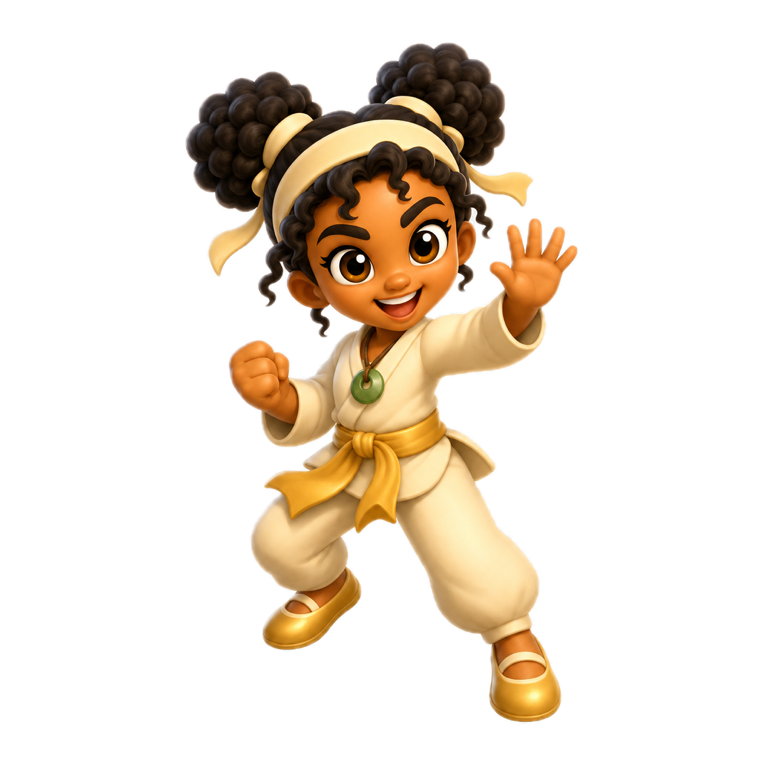
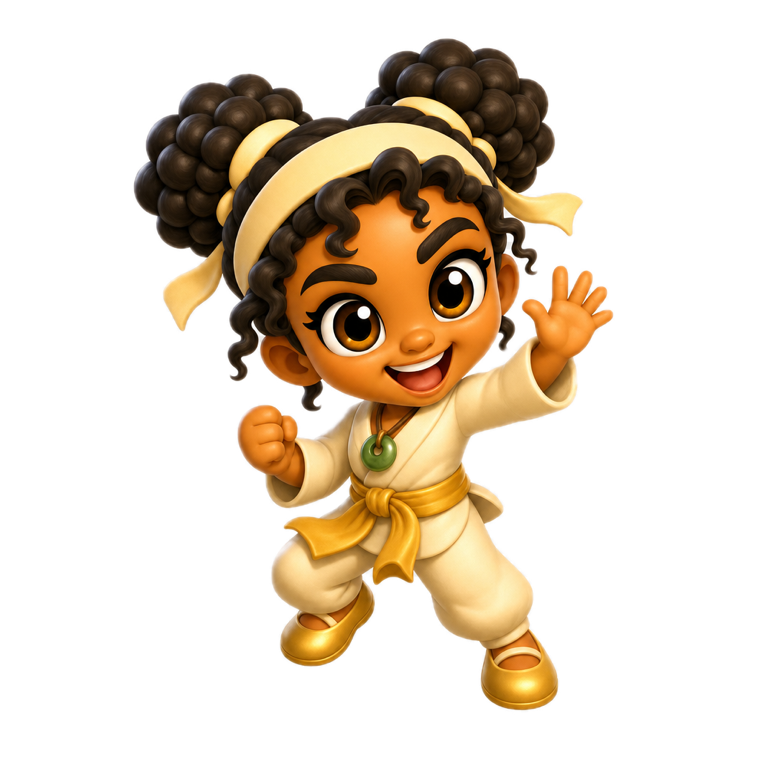
A theme for every world, and the bolder character look in the preview
Water keeps Afterglow with silk ripples and swells; the Bamboo Grove gets a new theme in
wood's own mode (low bamboo flute, wooden knocks, zither); the Lantern Ridge adds festival
drums and lifts from minor into major when restored; the Silver City re-voices The Path
with a bell-piano, a forge clank and a deep city bell. Each world steps up after waves
3, 6 and 9, over its own weather. ?look=new now shows the bolder characters.

Changed region(s): [[0.1513, 0.0303, 0.8171, 0.9684]]

diff --git a/level1/index.html b/level1/index.html
@@ -913,8 +913,8 @@ Object.keys(KIND).forEach(k => load('e-' + k, `art4/e-${k}.png?v=6`));
 // wherever they exist (for now one Keeper, the foal, two creatures and the Warden), so both looks can be played side by side
 const LOOK = /[?&]look=new/.test(location.search);
 const LOOKS = { 'art4/k1-hi.png':'art5/k1-hi.png', 'art4/a-horse-y.png':'art5/a-horse-y.png' };
-const lookSrc = p => { const path = p.split('?')[0]; return LOOK && LOOKS[path] ? LOOKS[path] + '?v=1' : p; };
-if (LOOK) { const n = 'art5/', v = '?v=1';
+const lookSrc = p => { const path = p.split('?')[0]; return LOOK && LOOKS[path] ? LOOKS[path] + '?v=2' : p; };
+if (LOOK) { const n = 'art5/', v = '?v=2';
   load('k1', `${n}k1.png${v}`); for (let r = 1; r <= 3; r++) load('k1r' + r, `${n}k1-r${r}.png${v}`);
   ['dash', 'hurt', 'cheer'].forEach(p => load('k1' + p, `${n}k1-${p}.png${v}`));
   load('horsey', `${n}a-horse-y.png${v}`); load('e-water-a', `${n}e-water-a.png${v}`); load('e-earth-a', `${n}e-earth-a.png${v}`);
@@ -1070,7 +1070,7 @@ const AU = (() => {
      "The Warden" (D minor, darker, with a tolling bell), so players learn what a boss sounds like; when the boss
      is enraged the Warden theme switches up too. Low health muffles the music under the heartbeat. */
   const SIX = 60 / 144 / 4;  // one sixteenth; the groove is half-time, so it feels like 72
-  const M = { timer:null, next:0, step:0, song:'path', tier:0, want:0, threat:0, hold:0, sw:-1, low:false, built:false };
+  const M = { timer:null, next:0, step:0, song:'path', tier:0, want:0, threat:0, hold:0, sw:-1, low:false, built:false, world:null, rest:0 };
   let mBus, mLow, padF, rev, dly, drv;
   function mBuild() {
     if (M.built) return; M.built = true;
@@ -1117,6 +1117,7 @@ const AU = (() => {
     mn({ t, f:900, ft:'bandpass', q:1.5, dur:.03, vol:v * .25 });
     mv({ t, f, type:'triangle', dur:1.4 * len, vol:v, att:.006, lp:open, dly:.35, rev:.45 }); mv({ t, f, det:7, dur:1.1 * len, vol:v * .5, att:.006, lp:open }); mv({ t, f:f * 2, dur:.25 * len, vol:v * .1, lp:open });
   };
+  const feltKeys = (t, f, v, len, open) => felt(t, f, v, len, open);
   const toll = (t, f, v = .12) => { mv({ t, f, dur:3, vol:v, att:.004, rev:.8 }); mv({ t, f:f * 2.4, dur:1.6, vol:v * .35, rev:.8 }); mv({ t, f:f * 5.95, dur:.6, vol:v * .12, rev:.6 }); mv({ t, f:f / 2, dur:2.4, vol:v * .6 }); };
   const riser = (t, len, v = .09) => mn({ t, f:350, f1:9000, dur:len + .05, att:len * .92, vol:v, to:mLow, rev:.3 });
   const breath = (t, len) => { mBus.gain.setValueAtTime(1, t); mBus.gain.linearRampToValueAtTime(.12, t + .05); mBus.gain.setValueAtTime(.12, t + len - .02); mBus.gain.linearRampToValueAtTime(1, t + len + .01); };
@@ -1150,6 +1151,54 @@ const AU = (() => {
       if (p === 3) play(f / 2, 0, .45, 1);
       if (p !== 0 && grace(bar, k)) play(f * 1.1225, SIX * .5, .5, .4);   // a quick turn up a step and back
     });
+  }
+
+  /* The worlds (A, 2026-10-04: "music that would perfectly match each world"). One engine and one tempo for every level,
+     so the Warden can always land on the next bar, but each world has its own voice, drawn from the five tones of
+     traditional Chinese music, where each tone belongs to an element (the wood theme is written in wood's mode), and
+     its own instruments from the old families of sound: silk strings, bamboo flutes, wood, drums, bells. Each world
+     comes alive in three steps as its waves are cleared, after waves 3, 6 and 9 (M.rest 1/3, 2/3, 1): its own
+     instrument joins, then its colour lifts, then everything plays. Under the music, ambStep plays the world's
+     weather, crossfading from out of balance to restored.
+       water, the Frozen Shore: "Afterglow" with silk-string ripples, swells, and the zither answering the hook
+       wood, the Bamboo Grove: "Bamboo Rain", new: a breathy low bamboo flute, wooden knocks, a plucked zither
+       fire, the Lantern Ridge: "Lantern Night" with festival drums and tremolo plucks; when the ridge is restored the
+         whole tune lifts from minor into major: joy coming back
+       metal, the Silver City: "The Path" re-voiced as "Silver Bell": a bell-piano, a forge rhythm, one deep city bell
+     Every new voice stays in the middle register or below and rests, per the rule against high repeating instruments. */
+  const lit = n => M.rest >= n / 3 - .001;
+  const silk = (t, f, v) => { mv({ t, f, type:'triangle', dur:1.3, vol:v, att:.002, lp:2600, rev:.45, dly:.25 }); mv({ t, f:f * 2, dur:.28, vol:v * .22, att:.002, lp:3000 }); mn({ t, f:2000, ft:'bandpass', q:4, dur:.02, vol:v * .22 }); };
+  const flute = (t, f, v, len = SIX * 3) => {   // a low bamboo flute: it scoops into the note, breathes, and sways
+    mv({ t, f, f0:f * .97, gl:.05, type:'triangle', dur:len, vol:v, att:.035, hold:len * .5, lp:2000, vib:5, vibD:9, rev:.45, dly:.2 });
+    mv({ t, f, dur:len, vol:v * .45, att:.05, hold:len * .5 }); mn({ t, f:f * 2, ft:'bandpass', q:2.5, dur:len * .8, vol:v * .1, att:.04 });
+  };
+  const knock = (t, f = 460, v = .07) => { mv({ t, f, dur:.07, vol:v, att:.001, lp:1800 }); mn({ t, f:f * 1.6, ft:'bandpass', q:6, dur:.03, vol:v * .35 }); };   // a wooden fish
+  const qin = (t, f, v, len = 2) => { mv({ t, f, f0:f * 1.03, gl:.12, type:'triangle', dur:len, vol:v, att:.003, lp:1100, rev:.4 }); mv({ t, f:f * 2, dur:.35, vol:v * .18, lp:1400 }); };   // a low zither, sliding into the note
+  const taiko = (t, v = .2, f = 88, to) => { mv({ t, f:f * 1.6, f1:f, gl1:.14, dur:.55, vol:v, att:.003, to }); mn({ t, f:380, ft:'lowpass', dur:.12, vol:v * .35, to }); };
+  // a deep anvil clank, not a ping: low body, one quiet inharmonic overtone, nothing above about 800 Hz
+  const anvil = (t, v = .03) => { mv({ t, f:290, dur:.24, vol:v, att:.001, rev:.3 }); mv({ t, f:290 * 2.76, dur:.08, vol:v * .25, att:.001, rev:.3 }); mn({ t, f:600, ft:'bandpass', q:3, dur:.03, vol:v * .5 }); };
+  const bellKeys = (t, f, v, len = 1, open = 1500) => { felt(t, f, v * .85, len, open); mv({ t, f:f * 2.76, dur:.4 * len, vol:v * .07, att:.002, rev:.4 }); };
+  const YU = [261.63, 311.13, 349.23, 392, 466.16, 523.25];   // water's mode on C: the silk ripples
+  // the world's own weather, on the effects volume, kept low and mostly under 2 kHz
+  function ambStep(s, t) {
+    const i = s & 15, bar = s >> 4, r = M.rest, a = 1 - r, w = M.world, to = sfx, R = Math.random;
+    if (w === 'water') {
+      if (i === 0 && a > .05) mn({ t, f:700, f1:420, ft:'bandpass', q:.8, dur:SIX * 16, att:SIX * 6, vol:.012 * a, to });   // a cold wind
+      if (i === 5 && bar % 3 === 0 && a > .2) mn({ t, f:170, ft:'lowpass', dur:.25, vol:.03 * a, to });   // ice creaking
+      if (i === 0 && !(bar & 1) && r > .05) mn({ t, f:250, f1:950, ft:'lowpass', dur:SIX * 32, att:SIX * 14, vol:.03 * r, to, rev:.3 });   // waves rolling in
+    } else if (w === 'wood') {
+      if (i === 0 && a > .05) mn({ t, f:1200, ft:'bandpass', q:1.6, dur:SIX * 16, att:SIX * 7, vol:.009 * a, to });   // dry wind with nothing to rustle
+      if (i === 9 && bar % 3 === 1 && a > .3) mv({ t, f:230, f1:180, dur:.35, vol:.012 * a, att:.04, to });   // a brittle creak
+      if ((i === 2 || i === 9) && r > .05 && R() < .6) mn({ t, f:2600, dur:.35, att:.08, vol:.007 * r, to });   // leaves rustling
+      if (i === 12 && (bar & 1) && r > .3) { mv({ t, f:190, type:'triangle', dur:.09, vol:.02 * r, to }); mv({ t:t + .11, f:160, type:'triangle', dur:.12, vol:.018 * r, to }); }   // a low frog, never a cricket
+    } else if (w === 'fire') {
+      if (i === 0 && a > .05) mn({ t, f:420, ft:'lowpass', dur:SIX * 16, att:SIX * 8, vol:.014 * a, to });   // cold ash wind
+      if (r > .05) for (let k = 0; k < 2; k++) if (R() < .45 * r) mn({ t:t + R() * SIX, f:2400, ft:'bandpass', q:2, dur:.012, vol:.016 * r, to });   // embers crackling
+      if (i === 0 && !(bar & 1) && r > .3) taiko(t, .05 * r, 66, to);   // a festival drum, far off
+    } else if (w === 'metal') {
+      if (i === 0 && a > .05) mn({ t, f:380, ft:'lowpass', dur:SIX * 16, att:SIX * 8, vol:.016 * a, to });   // fog and silence
+      if (i === 8 && bar % 4 === 2 && r > .3) mv({ t, f:110, dur:2.6, vol:.025 * r, att:.004, rev:.7, to });   // the city's great bell, far away
+    }
   }
 
   const PATH = {  // Fm7, Dbmaj7, Abmaj7, Eb add9; two bars each
@@ -1196,15 +1245,23 @@ const AU = (() => {
     surp:[311.13, 392, 466.16],   // Eb major, the Warden's own Phrygian step: a preview of the boss
     counter:[220, 174.61, 233.08, 164.81],   // part C: A, F, Bb, E, a slow line under the chords
     kicks:[[0, 7, 10], [0, 3, 6, 11]] };
+  // the ridge restored: the same tune lifted into major (Dm Bb Gm A becomes D G Em A, F and Bb rise to F# and B),
+  // still ending on A so the Warden can land on the next bar
+  const lift = f => { const n = Math.round(12 * Math.log2(f / 293.66)), pc = ((n % 12) + 12) % 12; return pc === 3 || pc === 8 ? f * Math.pow(2, 1 / 12) : f; };
+  const LANT_UP = { pad:[[293.66, 369.99, 440], [196, 246.94, 293.66], [164.81, 196, 246.94], [220, 277.18, 329.63]],
+    root:[36.71, 49, 41.2, 55], hook:LANT.hook.map(b => b.map(([st, f]) => [st, lift(f)])), counter:[220, 196, 246.94, 164.81], surp:[293.66, 369.99, 440, 554.37] };
   const pluck = (t, f, v, len = 1, open = 1700) => {   // a kalimba: a round body, a soft woody knock, a little tine
     mv({ t, f, dur:.55 * len, vol:v, att:.003, lp:open, dly:.3, rev:.3 }); mv({ t, f, type:'triangle', dur:.18 * len, vol:v * .45, att:.002, lp:open });
     mn({ t, f:1400, ft:'bandpass', q:3, dur:.025, vol:v * .2 }); mv({ t, f:f * 2.01, dur:.07, vol:v * .1 });
   };
   const chant = (t, f, v = .05) => { for (const [lp, q] of [[820, 6], [1300, 7]]) mv({ t, f, type:'sawtooth', dur:.16, vol:v, att:.01, lp, ft:'bandpass', q, rev:.3 }); mn({ t, f:2200, ft:'bandpass', q:2, dur:.05, vol:v * .5 }); };
   function lanternStep(s, t) {
-    const bar = s >> 4, i = s & 15, ch = bar & 3, L = LANT, sw = i % 4 === 2 ? SIX * .2 : 0;   // a little swing on the off-beats
+    const bar = s >> 4, i = s & 15, ch = bar & 3, fire = M.world === 'fire', up = fire && lit(3), sw = i % 4 === 2 ? SIX * .2 : 0;   // a little swing on the off-beats
+    const L = up ? { ...LANT, ...LANT_UP } : LANT;
     if (i === 0) phrase(bar, t);
     const tier = M.tier, fill = M.sw === bar + 1;
+    if (fire && lit(1) && part(bar) !== 2 && !golden(bar)) { if (i === 0 || i === 10) taiko(t, .14); if (i === 14 && bar & 1) taiko(t, .08, 120); }
+    if (fire && lit(2) && i === 12 && !(bar & 1)) for (let r = 0; r < 4; r++) pluck(t + r * SIX / 2, L.pad[ch][0], .035 - r * .005, .5, 1500);   // a tremolo pluck
     if (i === 0) { pad(t, L.pad[ch], SIX * 16 + .7, tier ? .015 : .02, 'triangle'); if (!tier) sub(t, L.root[ch] * 2, SIX * 16, .09); }
     const open = [1100, 1800, 2500][tier];
     if (tier && hookOn(bar) && !(fill && i >= 13)) sing(L.hook[ch], bar, i, (f, d, g, l) => pluck(t + d + (d ? 0 : sw * (i % 4 === 2)), f, .09 * g, l, open));
@@ -1246,6 +1303,7 @@ const AU = (() => {
   function riseStep(s, t) {
     const bar = s >> 4, i = s & 15, k = s & 31, ch = (bar >> 1) & 3, R = GLOW;
     if (i === 0) phrase(bar, t);
+    if (M.world === 'water') waterLayers(s, t, M.tier);
     const tier = M.tier, fill = M.sw === bar + 1, open = [1300, 2400, 3600][tier];
     if (k === 0) keys(t, R.keys[ch], SIX * 18, tier ? .03 : .036, open);
     if (k === 16 && R.tens[ch]) keys(t, R.tens[ch], SIX * 14, .028, open);
@@ -1264,10 +1322,22 @@ const AU = (() => {
     hats(t, bar, i, tier, .04);
     if (tier >= 2 && (i === 7 || i === 15) && bar & 1) rim(t, .07);
   }
+  // the shore comes alive: silk ripples, then the sea swelling, then the zither answering the hook
+  function waterLayers(s, t, tier) {
+    const bar = s >> 4, k = s & 31, ch = (bar >> 1) & 3;
+    if (lit(1) && k >= 24 && k < 28 && part(bar) !== 2) silk(t, YU[(ch + k - 24) % 6], .03);
+    if (lit(2) && k === 16) mn({ t, f:280, f1:1100, ft:'lowpass', dur:SIX * 16, att:SIX * 8, vol:.03, rev:.5 });
+    if (lit(3) && tier && !hookOn(bar)) { const h = GLOW.hook[0].find(x => x[0] === k); if (h) silk(t, h[1] / 2, .045); }
+  }
   function pathStep(s, t) {
-    const bar = s >> 4, i = s & 15, k = s & 31, ch = (bar >> 1) & 3, P = PATH;
+    const bar = s >> 4, i = s & 15, k = s & 31, ch = (bar >> 1) & 3, P = PATH, city = M.song === 'silver';
     if (i === 0) phrase(bar, t);
-    const tier = M.tier, fill = M.sw === bar + 1;
+    const tier = M.tier, fill = M.sw === bar + 1, felt = city ? bellKeys : feltKeys;
+    if (city) {   // the Silver City: a forge keeps time, one deep bell every four bars, then a choir of bells under the chords
+      if (lit(1) && i === 6 && bar % 4 !== 3 && part(bar) !== 2 && !golden(bar)) anvil(t, .035);
+      if (lit(2) && i === 0 && bar % 4 === 0) toll(t, 87.31, .05);
+      if (lit(3) && k === 0) for (const f of P.pad[ch]) mv({ t, f:f * 2, dur:SIX * 30, vol:.006, att:.9, hold:SIX * 14, vib:4, vibD:6, rev:.6 });
+    }
     if (k === 0) { pad(t, P.pad[ch], SIX * 32 + 1, tier ? .016 : .022); if (!tier) sub(t, P.root[ch] * 2, SIX * 32, .09); }
     const open = [1000, 1700, 2400][tier];   // underwater while calm, opening with the danger
     if (tier && hookOn(bar)) sing(ch & 1 ? P.hookB : P.hookA, bar, k, (f, d, g, l) => felt(t + d, f, .085 * g, l, open));
@@ -1289,6 +1359,39 @@ const AU = (() => {
     if (i === 8) clap(t, tier >= 2 ? .34 : .3); if (tier >= 2 && i === 15 && (bar & 3) === 3) clap(t, .12, .1);
     if (part(bar) === 2 && tier < 2) { if (i % 4 === 0) hat(t, .03); return; }   // the breakdown keeps the drums light
     hats(t, bar, i, tier, .045);
+  }
+  // "Bamboo Rain": the Bamboo Grove, new. In wood's own mode (jue: E G A C D), a breathy low bamboo flute sings a hook
+  // that rises to a high D at the golden point of its phrase and comes home to E; a low zither strums the chords, wooden
+  // knocks take the hi-hat's place on the off-beats, and the same knocking drums and sliding 808s hold it to the game.
+  const GROVE = {
+    pad:[[164.81, 196, 220, 293.66], [130.81, 164.81, 196, 293.66], [110, 164.81, 196, 261.63], [146.83, 220, 261.63, 329.63]],   // Em7add11, Cadd9, Am7, D9sus
+    root:[41.2, 32.7, 55, 36.71],
+    hookA:[[0, 329.63], [3, 329.63], [6, 392], [10, 440], [14, 392], [16, 329.63], [20, 587.33], [22, 523.25], [24, 440], [28, 392]],   // ends open on G
+    hookB:[[0, 329.63], [3, 329.63], [6, 392], [10, 440], [14, 392], [16, 329.63], [20, 587.33], [22, 523.25], [24, 440], [26, 392], [28, 329.63]],   // comes home to E
+    surp:[220, 277.18, 329.63, 440],   // A major: the Dorian lift, sunlight through the leaves
+    counter:[196, 164.81, 220, 146.83],
+    kicks:[[0, 7, 10], [0, 3, 10, 13]] };
+  function groveStep(s, t) {
+    const bar = s >> 4, i = s & 15, k = s & 31, ch = (bar >> 1) & 3, G = GROVE, wood = M.world === 'wood';
+    if (i === 0) phrase(bar, t);
+    const tier = M.tier, fill = M.sw === bar + 1, open = [1300, 2000, 2600][tier];
+    if (k === 0) { pad(t, G.pad[ch], SIX * 32 + 1, tier ? .013 : .018, 'triangle'); if (!tier) sub(t, G.root[ch] * 2, SIX * 32, .09); }
+    if (k === 0 || (k === 16 && tier)) for (let n = 0; n < 4; n++) qin(t + n * .035, G.pad[ch][n], .05, 2.2);   // a zither strum
+    if (tier && hookOn(bar) && !(fill && i >= 13)) sing(ch & 1 ? G.hookB : G.hookA, bar, k, (f, d, g, l) => flute(t + d, f, .07 * g, SIX * 3 * l));
+    else if (!tier) { const hk = G.hookA.find(h => h[0] === k); if (hk && preview(bar, k)) flute(t, hk[1], .055); }
+    if (tier && part(bar) === 2 && k === 0 && !golden(bar)) qin(t, G.counter[ch], .07, 3.2);
+    if (wood && lit(3) && tier && hookOn(bar)) { const h = (ch & 1 ? G.hookB : G.hookA).find(x => x[0] === k); if (h) qin(t, h[1] / 2, .04, 1.2); }   // the grove in full: the zither doubles the flute
+    if (wood && lit(2) && (i === 5 || i === 13) && (bar * 7 + i) % 3 === 0) silk(t, [329.63, 392, 440, 523.25, 587.33][(bar + i) % 5], .022);   // rain on the leaves
+    if (tier && golden(bar) && i < 8) { if (i === 0) pad(t, G.surp, SIX * 10, .028, 'triangle'); return; }
+    if (k === 28 && tier) mn({ t, f:500, f1:5000, dur:SIX * 4 + .02, att:SIX * 3.8, vol:.04, rev:.4 });
+    if (fill && tier === 0) { if (i >= 8 && i < 13) knock(t, 440 + (i - 8) * 25, .05 + (i - 8) * .02); if (i === 0) kick(t, .3); return; }
+    if (tier === 0) { if (i === 0 || i === 10) kick(t, .26); if (i === 8) rim(t, .08); if (i % 4 === 2) knock(t, 460, .04); return; }
+    groove(t, bar, i, G, ch, tier, tier >= 2 ? .64 : .6);
+    if (i === 8) clap(t, tier >= 2 ? .32 : .28, .35);
+    if (part(bar) === 2 && tier < 2) { if (i % 4 === 2) knock(t, 460, .035); return; }
+    if (i % 4 === 2) knock(t, 460, .05); else if (i % 2 === 0) hat(t, .022);
+    if (wood && lit(1) && (bar & 1) && i >= 12) knock(t + SIX / 3, 520, .035);   // the grove waking: a wooden-fish triplet into each chord
+    if (tier >= 2 && i === 15) knock(t, 560, .04);
   }
   function wardStep(s, t) {
     const bar = s >> 4, i = s & 15, k = s & 31, ch = (bar >> 1) & 3, W = WARD, intro = bar < 2;
@@ -1319,12 +1422,14 @@ const AU = (() => {
       if (!c) return; if (M.next < c.currentTime - .1) M.next = c.currentTime + .05;  // back from a hidden tab: skip, don't pile up
       while (M.next < c.currentTime + .2) {
         if (M.pend && (M.step & 15) === 0) startSong(M.pend, M.next);
-        if (musOn) ({ boss:wardStep, lantern:lanternStep, rise:riseStep }[M.song] || pathStep)(M.step, M.next); M.next += SIX; M.step++;
+        if (musOn) ({ boss:wardStep, lantern:lanternStep, rise:riseStep, grove:groveStep }[M.song] || pathStep)(M.step, M.next);
+        if (sfxOn && M.world) ambStep(M.step, M.next);
+        M.next += SIX; M.step++;
       }
     }, 25);
   }
   function startSong(name, t) {
-    M.pend = null; M.song = name; M.step = 0; M.sw = -1; M.threat = 0; M.tier = M.want = name === 'boss' ? 1 : 0;
+    M.pend = null; M.song = name; M.step = 0; if (name !== 'boss') { M.world = null; M.rest = 0; } M.sw = -1; M.threat = 0; M.tier = M.want = name === 'boss' ? 1 : 0;
     if (!c || !M.built) return;
     mBus.gain.cancelScheduledValues(t);
     if (name === 'boss') {   // the old theme ducks out under a sub drop and a crash, and the Warden's bell takes the downbeat
@@ -1335,7 +1440,7 @@ const AU = (() => {
   }
   // 'path' or 'lantern' start a level calm, at once; 'boss' waits for the next bar with a riser, so it lands on the beat
   function song(name, tier = 0) {
-    if (name === M.song && name !== 'boss' && c && M.built && M.timer) { M.want = tier; M.threat = 0; return; }   // already playing: keep the groove, let it settle
+    if (name === M.song && name !== 'boss' && c && M.built && M.timer) { M.want = tier; M.threat = 0; M.world = null; M.rest = 0; return; }   // already playing: keep the groove, let it settle
     if (name === 'boss' && c && M.built && M.timer) {
       const left = (16 - (M.step & 15)) % 16 * SIX; M.pend = 'boss';
       if (musOn && left > .2) { riser(c.currentTime, left, .1); breath(c.currentTime + Math.max(0, left - SIX * 2), SIX * 2); }
@@ -1350,7 +1455,9 @@ const AU = (() => {
     else { const up = M.threat > .72 ? 2 : M.threat > .38 ? 1 : 0; if (up >= M.want) { M.want = up; M.hold = now; } else if (now - M.hold > 9000) M.want = up; }
     if (low !== M.low) { M.low = low; mLow.frequency.setTargetAtTime(low ? 950 : 18000, c.currentTime, low ? .35 : .15); }
   }
-  return { init, S, music, song, threat, rec() { const d = c.createMediaStreamDestination(); mus.connect(d); return d.stream; },
+  // which world is playing and how restored it is (0..1); the game calls it every frame during a level
+  function world(w, r) { M.world = w; M.rest = Math.max(0, Math.min(1, r)); }
+  return { init, S, music, song, threat, world, rec() { const d = c.createMediaStreamDestination(); mus.connect(d); return d.stream; },
     meter() {   // test hook: the loudness of the effects and the music right now, in dB
       if (!c) return null; if (!this._m) { const m = n => { const a = c.createAnalyser(); a.fftSize = 2048; n.connect(a); return a; }; this._m = { s:m(sfx), u:m(mus), b:new Float32Array(2048) }; }
       const db = a => { a.getFloatTimeDomainData(this._m.b); let e = 0; for (const x of this._m.b) e += x * x; return 10 * Math.log10(e / this._m.b.length + 1e-12); };
@@ -1507,7 +1614,7 @@ function startRun() {
   for (let i = 0; i < 3; i++) placeCrate(true);
   $('#hud').hidden = false; $('#bossWrap').classList.remove('on'); $('#cue').innerHTML = '';
   // Afterglow opens, then the level themes take turns; every boss shares the Warden's
-  AU.song(['rise', 'lantern', 'path', 'lantern'][S.level - 1]); AU.music(true); new Image().src = `art4/rise/k${keeper}.jpg?v=6`; renderSkills(); startLoop();
+  AU.song(['rise', 'grove', 'lantern', 'silver'][S.level - 1]); AU.music(true); new Image().src = `art4/rise/k${keeper}.jpg?v=6`; renderSkills(); startLoop();
   COACH.q.length = 0; COACH.cur = null; COACH.gap = .4; hideCoach(); NOTES.q.length = 0; NOTES.t = 3;
   // tutorials belong to level 1 only; later levels just play
   if (S.level > 1) ['move', 'pet', 'enemy', 'gem', 'xp', 'crate', 'item', 'chest', 'wave', 'boss', 'awake'].forEach(k => S.taught['c_' + k] = 1), ['lu', 'luevo', 'lugift', 'chest', 'strong', 'weak'].forEach(k => S.taught[k] = 1); $('#wavePill').classList.add('on');
@@ -2568,6 +2675,8 @@ function update(dt) {
     let near = 0, big = 0; for (const e of S.en) if (!e.dead && !e.boss && Math.abs(e.x - P.x) < 650 && Math.abs(e.y - P.y) < 650) { near++; if (e.heavy) big++; }
     const hf = P.hp / P.max, B = S.boss && !S.boss.dead ? S.boss : null;
     AU.threat(Math.min(1, near / 40 + big * .07 + (S.warn ? .3 : 0) + Math.max(0, .6 - hf) * .6 + S.waveIdx / LV().waves.length * .2), hf < .25, B ? (B.hp < B.max * .34 ? 2 : 1) : 0); }
+    // the world comes alive as its waves are cleared: after 3, 6 and 9 the music and weather step up
+    AU.world(['water', 'wood', 'fire', 'metal'][S.level - 1], S.bossSpawned ? 1 : S.waveIdx / LV().waves.length);
   if (P.hp < P.max * .3 && !S.over && (S.beatT = (S.beatT || 0) - dt) <= 0) { S.beatT = .5 + P.hp / P.max * 2.5; SFX.heartbeat(); }
   P.hurt -= dt; S.shake = Math.max(0, S.shake - dt); S.flashT = Math.max(0, S.flashT - dt); S.freeze = Math.max(0, S.freeze - dt); S.buffs.tiger = Math.max(0, S.buffs.tiger - dt); S.buffs.ward = Math.max(0, S.buffs.ward - dt);
   P.rx = (P.rx || 0) * Math.pow(.0005, dt); P.ry = (P.ry || 0) * Math.pow(.0005, dt);
@@ -3060,7 +3169,8 @@ function draw() {
   const runName = `k${keeper}r${[1, 2, 3, 2][Math.floor(S.t * 10) % 4]}`, useRun = P.moving && ok(IMG[runName]), hk = Math.max(0, 1 - (S.t - (P.hitAt ?? -9)) / .28);
   const pose = n => ok(IMG['k' + keeper + n]) ? 'k' + keeper + n : null;
   const posed = S.dash ? pose('dash') : hk > .3 ? pose('hurt') : S.t - (P.cheerAt ?? -9) < .8 ? pose('cheer') : null;
-  const kName = posed || (useRun ? runName : 'k' + keeper), kim = IMG[kName], ks = 108;
+  // the bold look's bigger heads read best drawn a little larger
+  const kName = posed || (useRun ? runName : 'k' + keeper), kim = IMG[kName], ks = LOOK ? 120 : 108;
   if (P.slowT > 0) { const k = Math.min(1, P.slowT * 2); g.strokeStyle = `rgba(110,190,255,${.8 * k})`; g.fillStyle = `rgba(110,190,255,${.25 * k})`; g.lineWidth = 3; g.beginPath(); g.ellipse(P.x, P.y + 26, 40, 15, 0, 0, TAU); g.fill(); g.stroke(); g.lineWidth = 1; if (Math.random() < .3) fx({ k:'drop', x:P.x + rnd(-24, 24), y:P.y + rnd(-50, 10), z:0, vx:0, vy:30, life:.5, s:3 }); }
   const run = P.moving, cyc = S.t * 13, bob = run ? (useRun ? Math.abs(Math.sin(S.t * Math.PI * 5)) * 3 : Math.abs(Math.sin(cyc)) * 6) : 0;
   const lean = run ? P.mx * (useRun ? .05 : .13) : 0, ksx = run ? 1 - Math.abs(Math.cos(cyc)) * .04 : 1 - Math.sin(S.t * 2.6) * .01, ksy = run ? 1 + Math.abs(Math.cos(cyc)) * .05 : 1 + Math.sin(S.t * 2.6) * .022;
